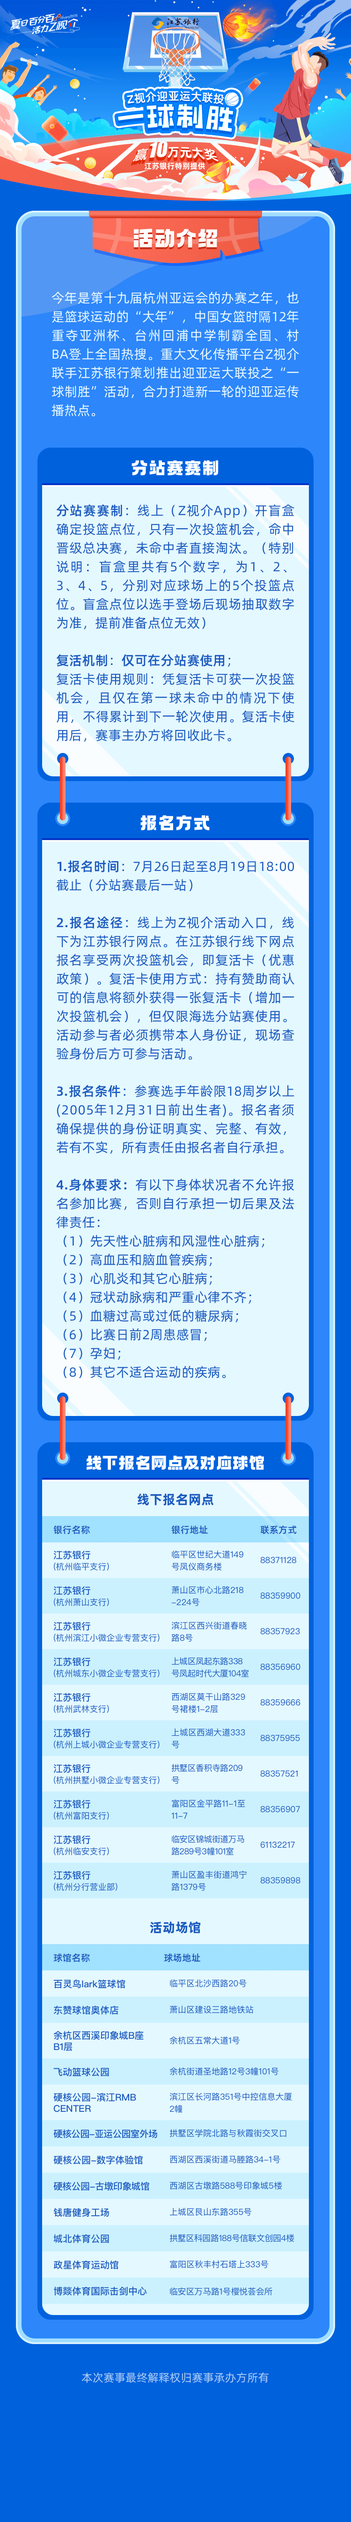
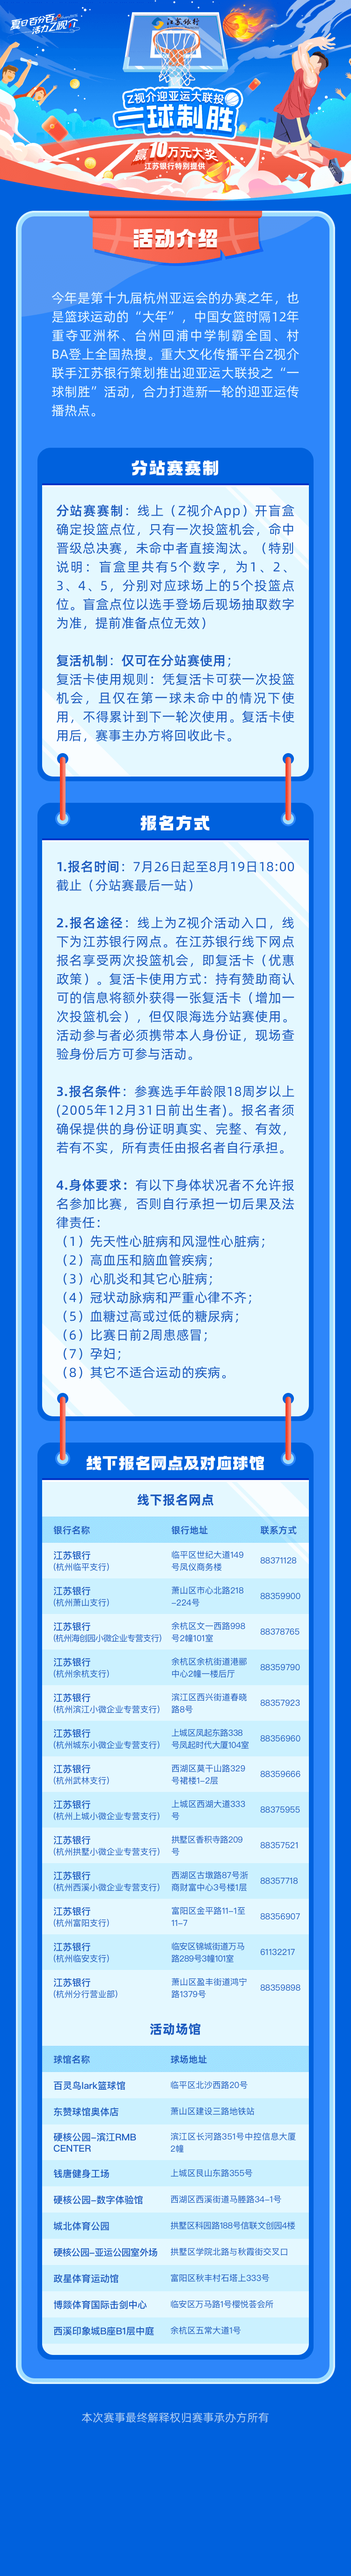
feat: 修改ui

diff --git a/src/views/sign/index.vue b/src/views/sign/index.vue
@@ -72,7 +72,7 @@ export default defineComponent({
     const placeColumn = ref<any[]>([])
     const timeColumns = ref<any[]>([])
     const seleteTimeRef = ref(null);
-    let allTimeColumns:any[] = []
+    let allTimeColumns: any[] = []
 
     let showPop = ref<boolean>(false);
     const backPopCall = () => {
@@ -82,12 +82,13 @@ export default defineComponent({
       });
     }
 
-    const configPlace = (selectedOptions)=>{
+    const configPlace = (selectedOptions) => {
+      //@ts-ignore
       seleteTimeRef.value.clearText()
-      if(selectedOptions[0]?.text == '余杭区西溪印象城B座B1层'){
-        timeColumns.value = allTimeColumns.slice(2,4)
-      }else{
-        timeColumns.value = allTimeColumns.slice(0,2)
+      if (selectedOptions[0]?.text == '余杭区西溪印象城B座B1层') {
+        timeColumns.value = allTimeColumns.slice(2, 4)
+      } else {
+        timeColumns.value = allTimeColumns.slice(0, 2)
       }
     }
 
@@ -101,8 +102,10 @@ export default defineComponent({
       let res = await getActiveInfo()
       console.log(res, 'res')
       allTimeColumns = filterColumn(res.extra.param[9].data)
-      timeColumns.value = allTimeColumns.slice(0,2)
-      placeColumn.value = filterColumn(res.extra.param[10].data)
+      timeColumns.value = allTimeColumns.slice(0, 2)
+      placeColumn.value = filterColumn(res.extra.param[10].data).filter(item => {
+        return item.text != '飞动篮球公园' && item.text != '硬核-古墩印象城馆'
+      })
     };
 
     const filterColumn = (arr) => {
@@ -223,10 +226,11 @@ export default defineComponent({
       // });
       // return
 
+      // console.log(values, 'vales')
+
       values.radio9 = findArrValue(allTimeColumns, values.radio9);
       values.radio10 = findArrValue(placeColumn.value, values.radio10);
 
-      console.log(values,'vales')
 
       let res = await postSignUp({
         enroll_id: '150',

diff --git a/src/views/sign/components/SelectField.vue b/src/views/sign/components/SelectField.vue
@@ -8,7 +8,7 @@ const emit = defineEmits(['config'])
 const showGroup = ref(false);
 const onConfirmGroup = ({ selectedOptions }) => {
     groupResult.value = selectedOptions[0]?.text;
-    emit('config',selectedOptions)
+    emit('config', selectedOptions)
     showGroup.value = false;
 };
 const props = defineProps<{
@@ -17,23 +17,22 @@ const props = defineProps<{
     columns: any[]
 }>();
 
-const  clearText= ()=>{
+const clearText = () => {
     groupResult.value = ''
 }
+
 defineExpose({
     groupResult,
-    clearText
+    clearText,
 })
 
 </script>
 
 <template>
-    <div>
-        <van-field v-model="groupResult" required is-link readonly :name="props.name" :label="props.label"
-            :placeholder="'点击选择' + props.label" @click="showGroup = true"
-            :rules="[{ required: true, message: '请选择' + props.label }]" />
-        <van-popup v-model:show="showGroup" position="bottom">
-            <van-picker :columns="props.columns" @confirm="onConfirmGroup" @cancel="showGroup = false" />
-        </van-popup>
-    </div>
+    <van-field v-model="groupResult" required is-link readonly :name="props.name" :label="props.label"
+        :placeholder="'点击选择' + props.label" @click="showGroup = true"
+        :rules="[{ required: true, message: '请选择' + props.label }]" />
+    <van-popup v-model:show="showGroup" position="bottom">
+        <van-picker :columns="props.columns" @confirm="onConfirmGroup" @cancel="showGroup = false" />
+    </van-popup>
 </template>

diff --git a/src/views/index/index.vue b/src/views/index/index.vue
@@ -251,10 +251,10 @@ export default defineComponent({
 
   .indexBg {
     background: url(../../assets/indexback.png) no-repeat;
-    background-size: 750px 5386px;
+    background-size: 750px 5500px;
     position: absolute;
     width: 750px;
-    height: 5386px;
+    height: 5500px;
     left: 0%;
   }
 
